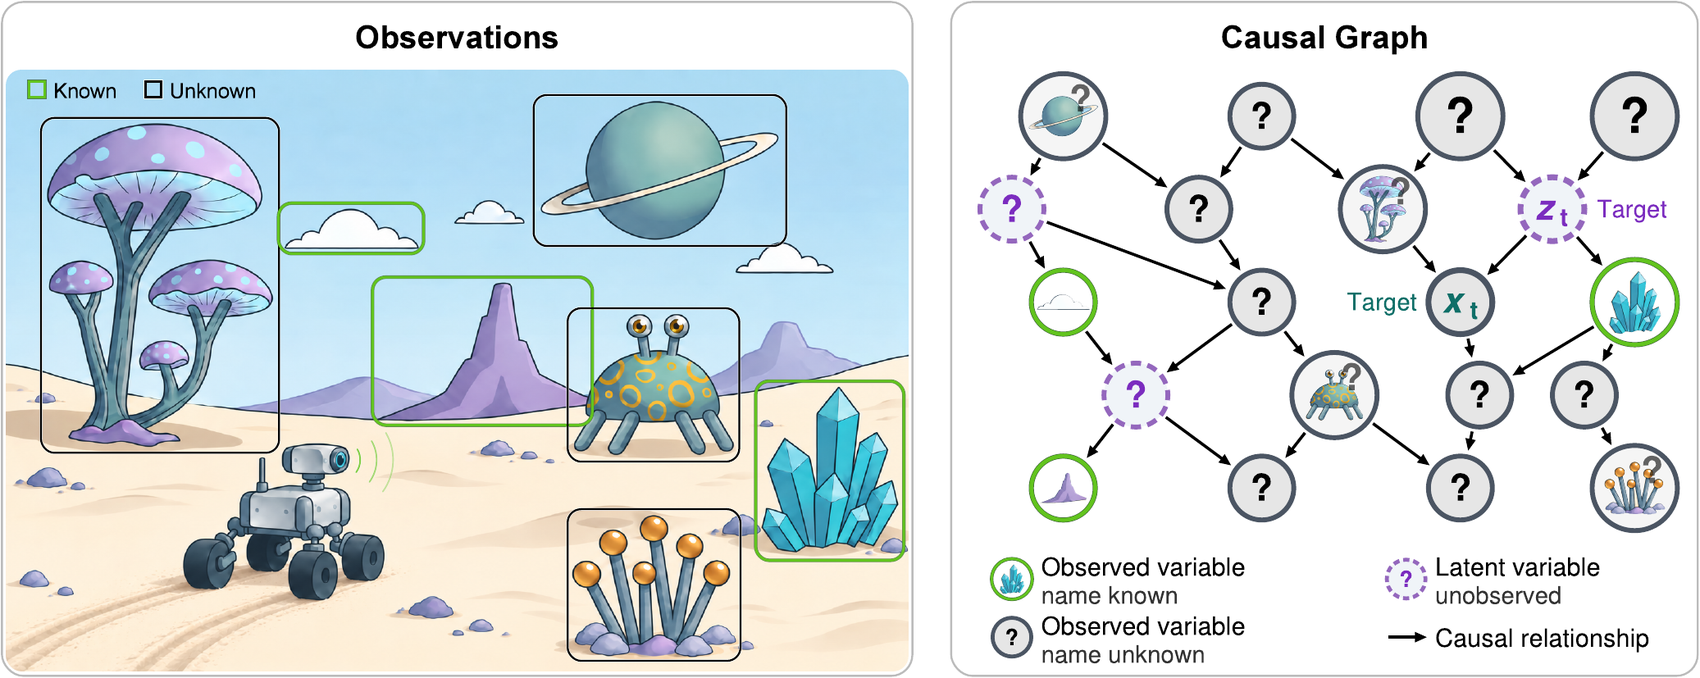
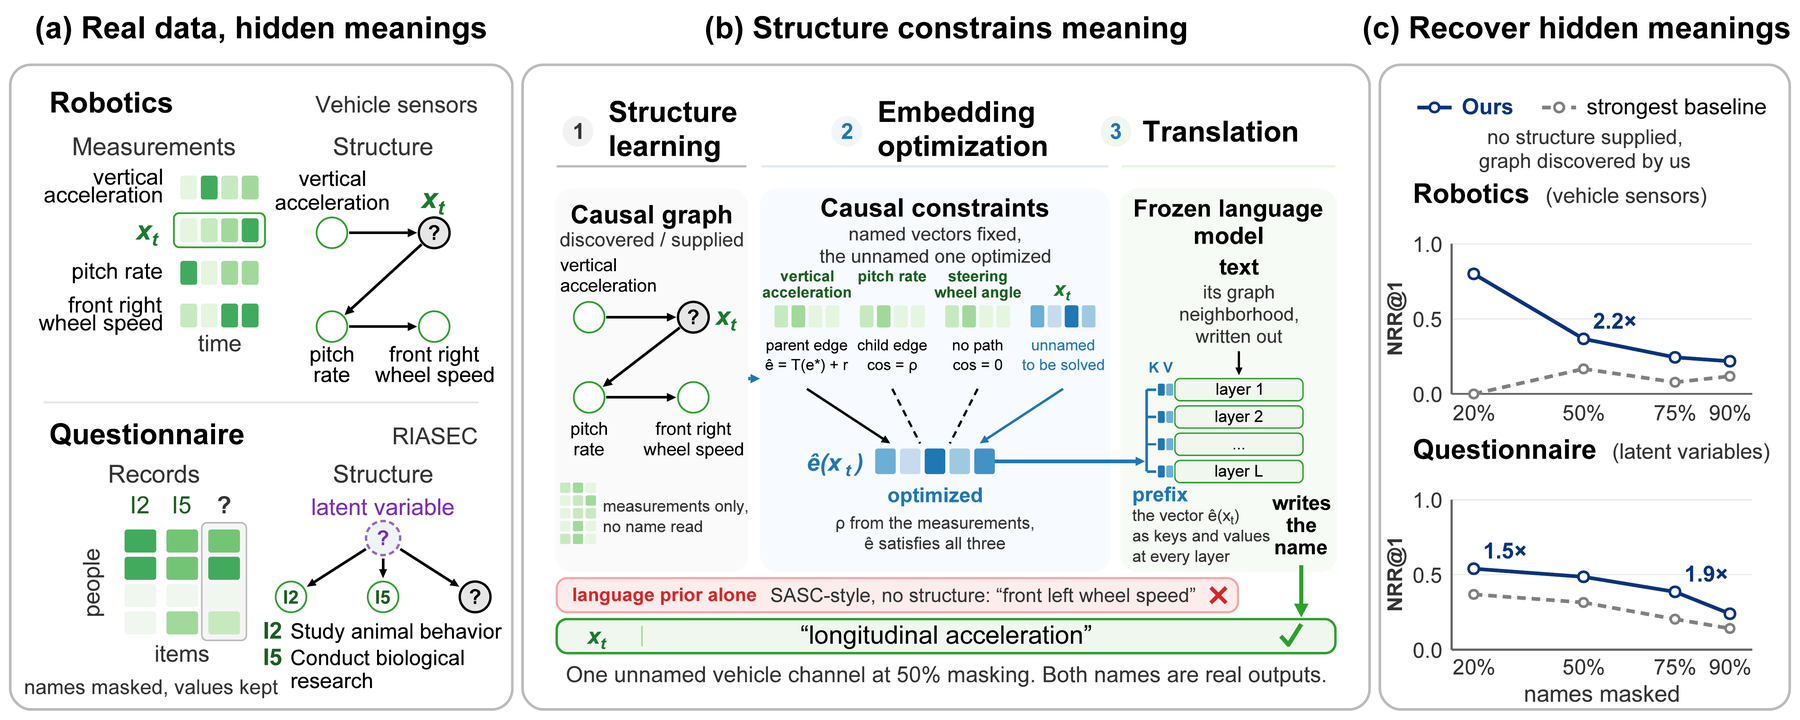
CausalBridge card: use Figure 2; figures open full size on click

diff --git a/index.html b/index.html
@@ -150,7 +150,7 @@
     <p class="note"><sup>&dagger;</sup> equal contribution</p>
 
     <article class="paper" id="pub-causalbridge">
-      <div class="paper-thumb"><img src="assets/causalbridge.png" alt="Figure 1: a rover on a new planet measures everything in view but can name only a few things, and the causal graph that the numbers reveal" loading="lazy"></div>
+      <div class="paper-thumb"><a href="assets/causalbridge.png" target="_blank" rel="noopener" title="Open the full figure"><img src="assets/causalbridge.png" alt="Figure 2: real systems with hidden variable names, the three steps of structure learning, embedding optimization, and translation, and the recovered names compared with the strongest baseline" loading="lazy"></a></div>
       <div class="paper-body">
         <p class="paper-venue"><span class="badge">ICLR 2027 &middot; Under Review</span></p>
         <h3>How Causality Bridges the Semantic Gap</h3>
@@ -164,7 +164,7 @@
     </article>
 
     <article class="paper" id="pub-scout">
-      <div class="paper-thumb"><img src="assets/scout.png" alt="Figure 1: detectors behave differently, SCOUT predicts and triages per request, and one threshold sets the safety-utility trade-off" loading="lazy"></div>
+      <div class="paper-thumb"><a href="assets/scout.png" target="_blank" rel="noopener" title="Open the full figure"><img src="assets/scout.png" alt="Figure 1: detectors behave differently, SCOUT predicts and triages per request, and one threshold sets the safety-utility trade-off" loading="lazy"></a></div>
       <div class="paper-body">
         <p class="paper-venue"><span class="badge badge-accent">EMNLP 2026 &middot; Main</span></p>
         <h3>Send a SCOUT First: Pre-hoc Reasoning for Adaptive Detector Allocation in Prompt-Injection Defense</h3>
@@ -183,7 +183,7 @@
     </article>
 
     <article class="paper" id="pub-scope">
-      <div class="paper-thumb"><img src="assets/scope.png" alt="Figure 2: fingerprint construction, performance prediction by SCOPE, and the budget-aware decision" loading="lazy"></div>
+      <div class="paper-thumb"><a href="assets/scope.png" target="_blank" rel="noopener" title="Open the full figure"><img src="assets/scope.png" alt="Figure 2: fingerprint construction, performance prediction by SCOPE, and the budget-aware decision" loading="lazy"></a></div>
       <div class="paper-body">
         <p class="paper-venue"><span class="badge badge-accent">ICML 2026</span></p>
         <h3>Models Under SCOPE: Scalable and Controllable Routing via Pre-hoc Reasoning</h3>
@@ -201,7 +201,7 @@
     </article>
 
     <article class="paper" id="pub-metacog">
-      <div class="paper-thumb"><img src="assets/metacog.png" alt="Figure 1: feeling of knowing and judgment of learning track correctness but do not guide reasoning effort" loading="lazy"></div>
+      <div class="paper-thumb"><a href="assets/metacog.png" target="_blank" rel="noopener" title="Open the full figure"><img src="assets/metacog.png" alt="Figure 1: feeling of knowing and judgment of learning track correctness but do not guide reasoning effort" loading="lazy"></a></div>
       <div class="paper-body">
         <p class="paper-venue"><span class="badge">Preprint 2026</span></p>
         <h3>LLMs Know When They Know, but Do Not Act on It: A Metacognitive Harness for Test-time Scaling</h3>

diff --git a/style.css b/style.css
@@ -690,3 +690,4 @@ details.more summary{ color: var(--teal); }
 /* complete paper figures (2026-10) */
 .paper-thumb{ background: #fff; padding: 14px; }
 .paper-thumb img{ width: 100%; max-width: 100%; max-height: none; height: auto; }
+.paper-thumb a{ display: block; cursor: zoom-in; }
